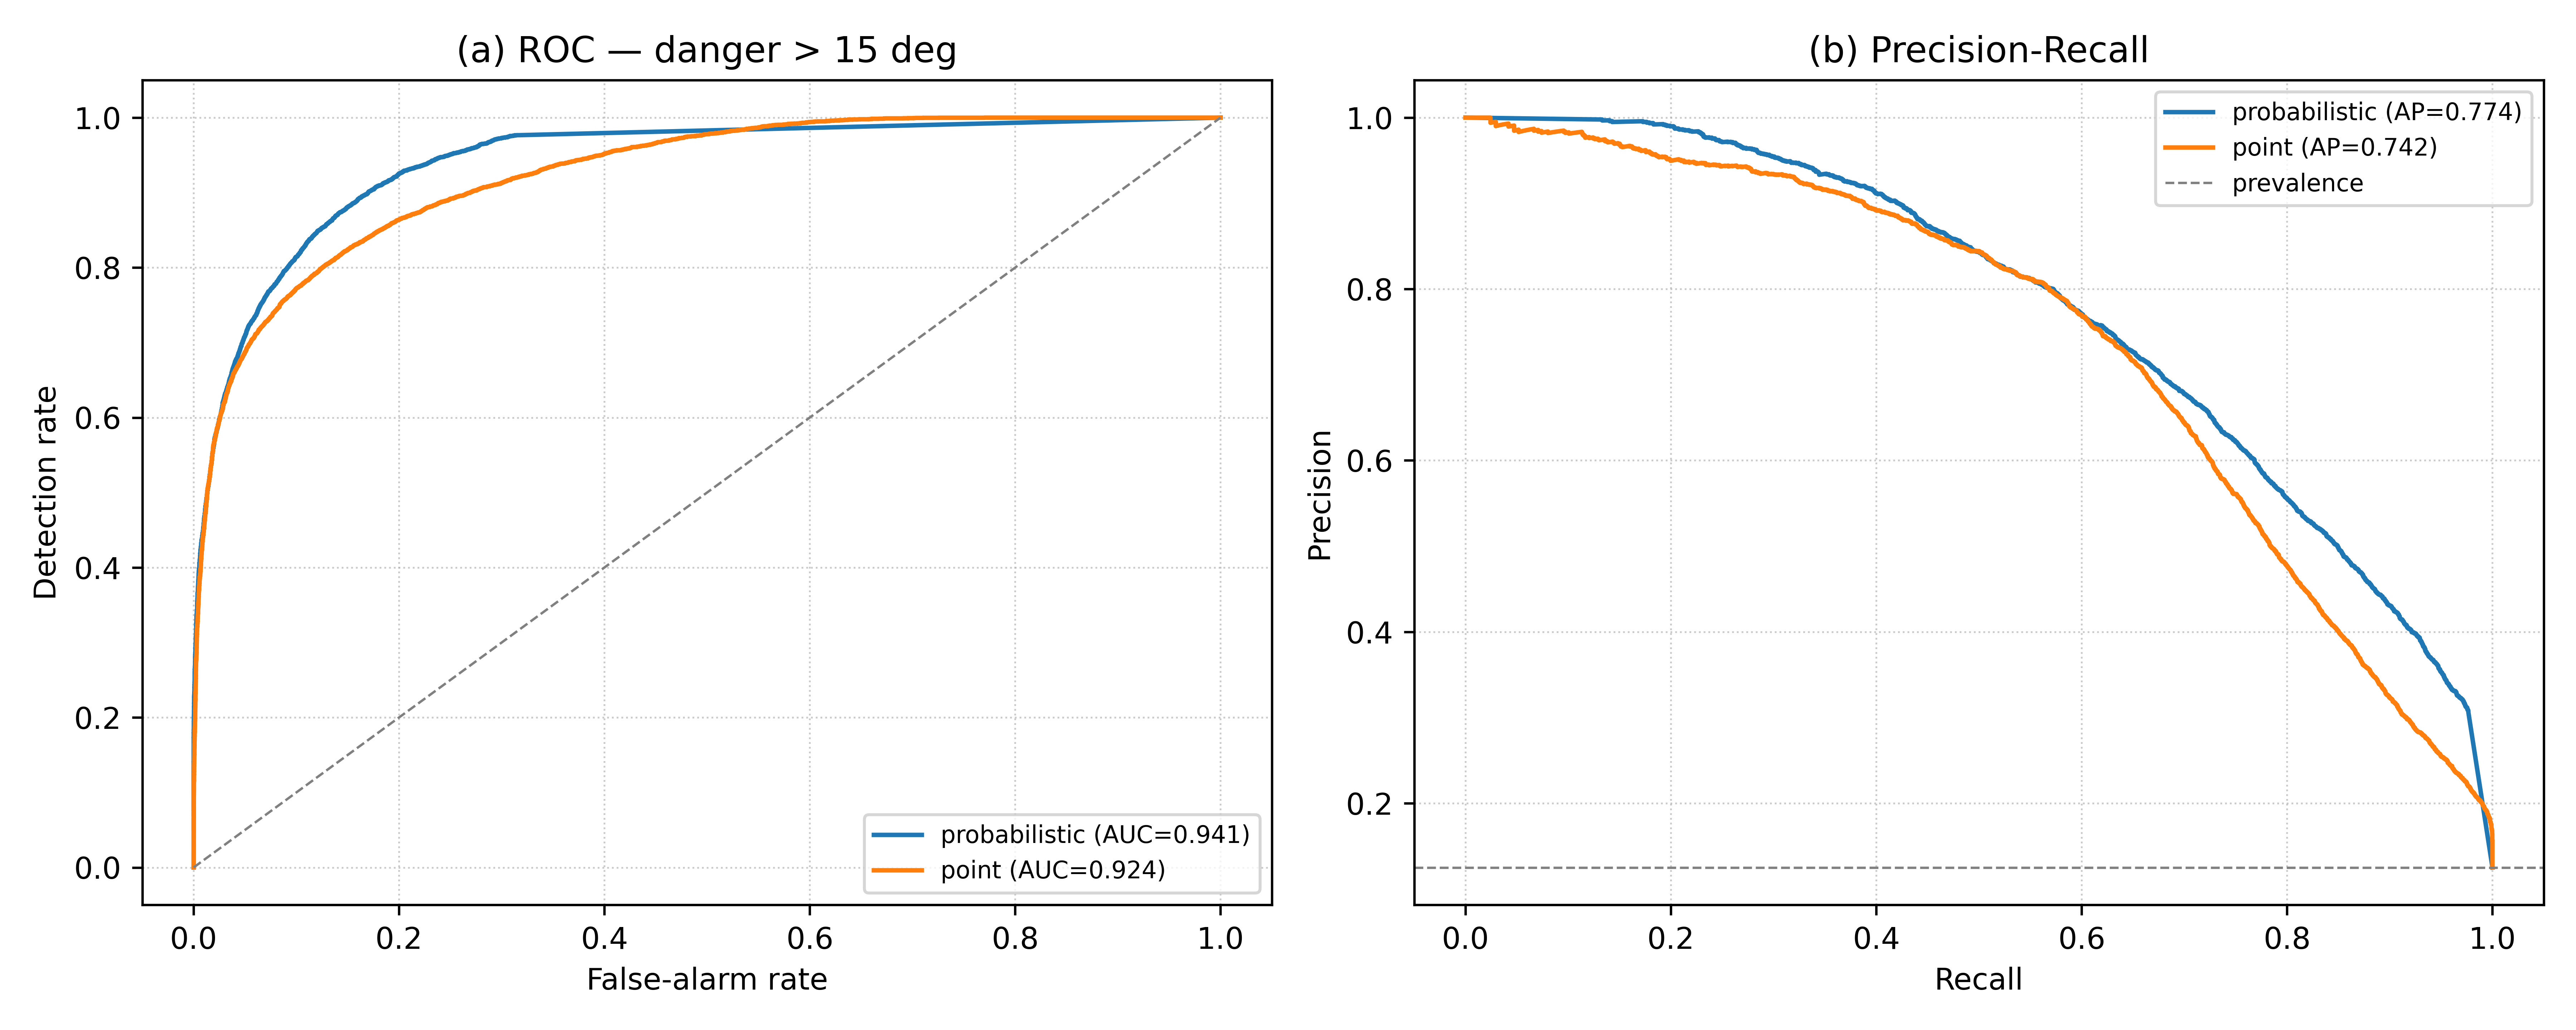
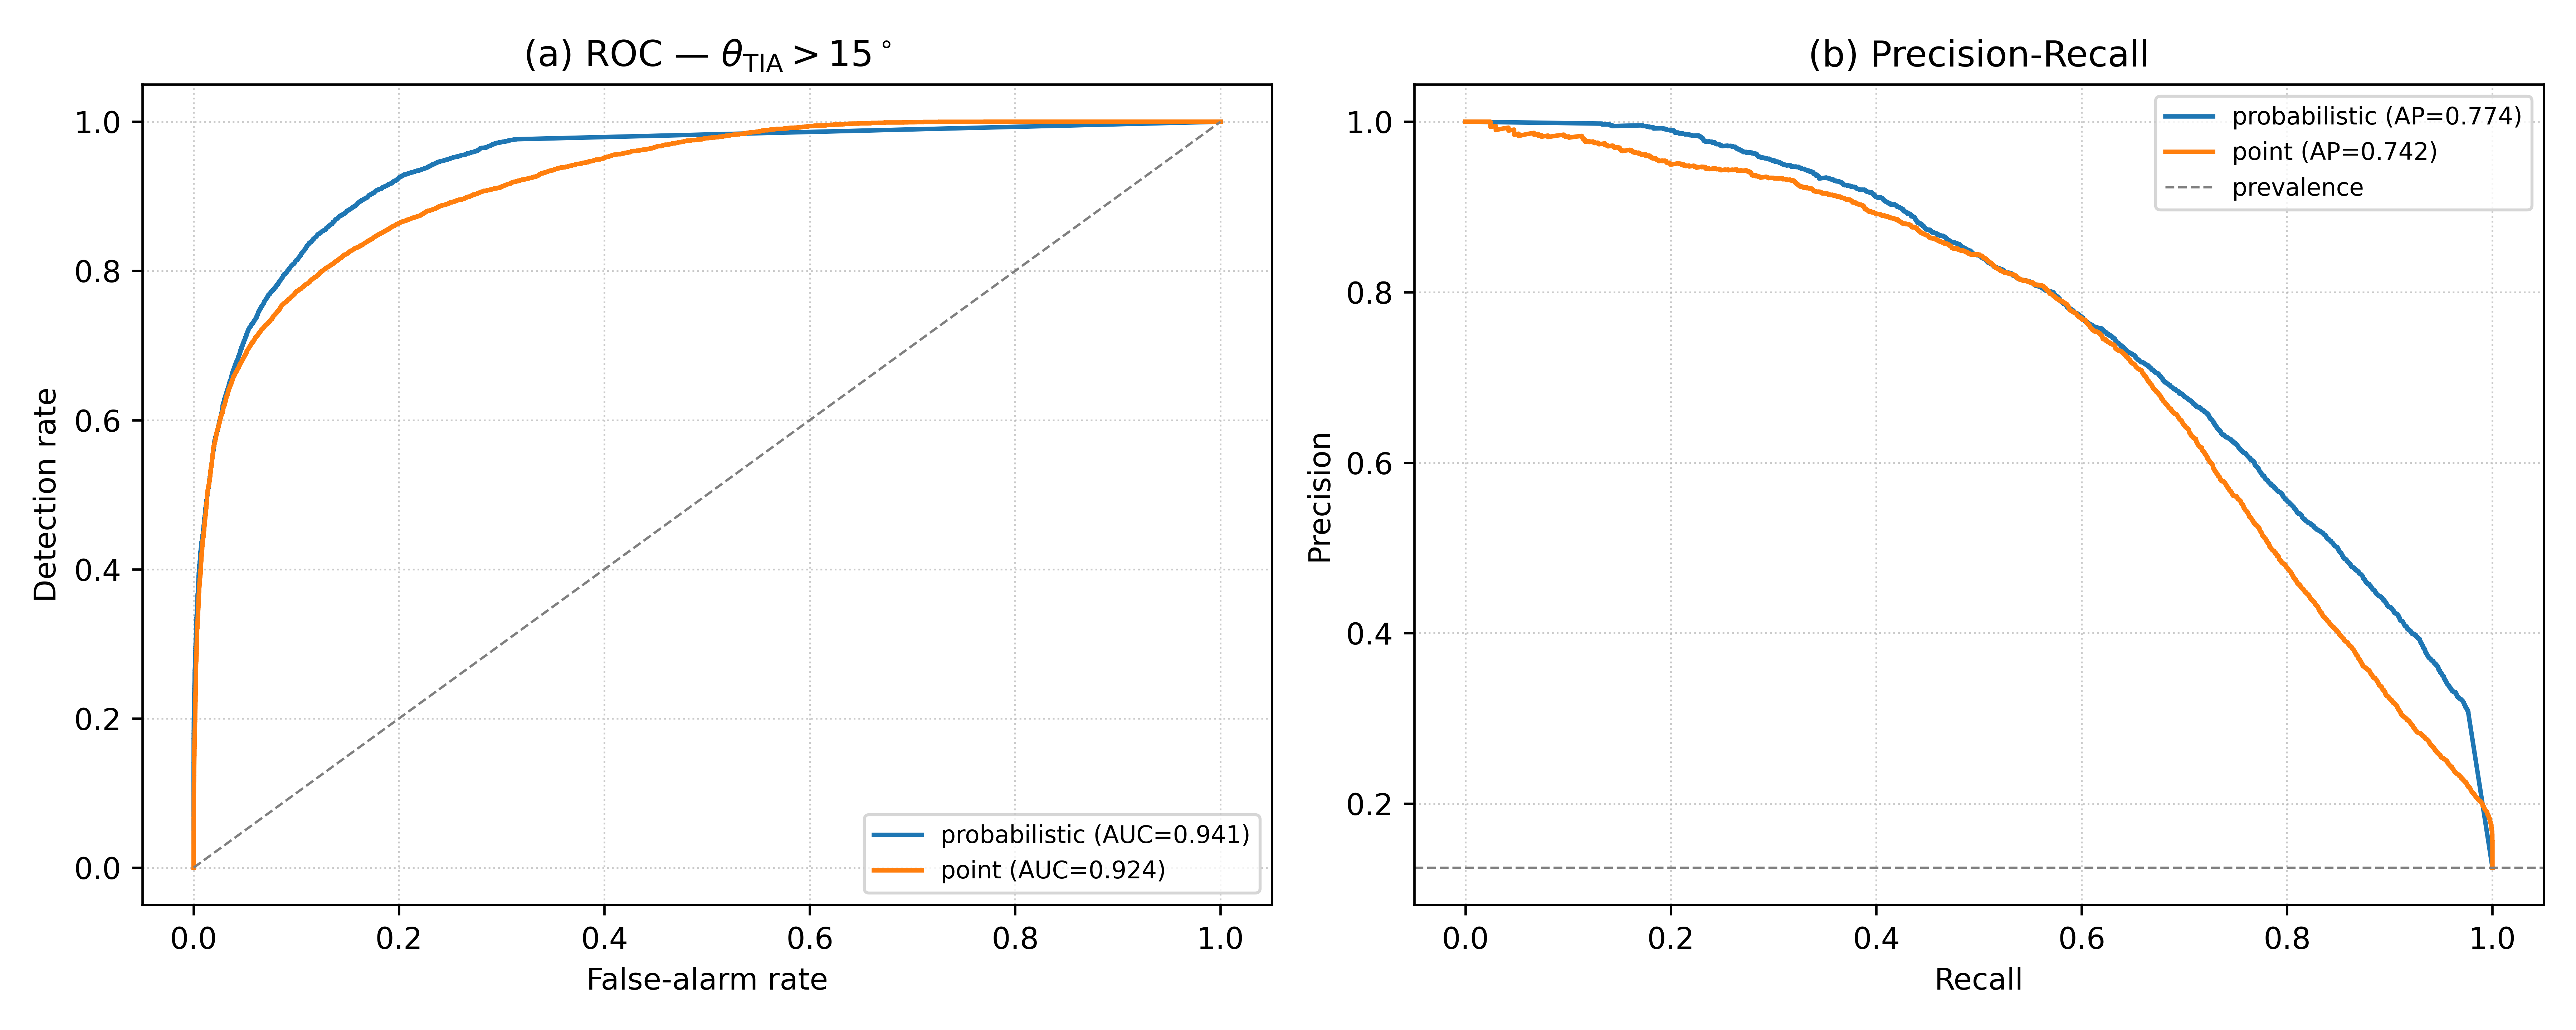
figs: align F7/F8 titles with paper terminology (theta_TIA > 15 deg)
Replace the danger-threshold axis titles in jmse/plots/earlywarning.py with the
manuscript total-inclination notation and refresh the committed F7/F8 PNGs.
Keeps the public reproducibility repo consistent with the revised manuscript.

diff --git a/jmse/plots/earlywarning.py b/jmse/plots/earlywarning.py
@@ -42,7 +42,7 @@ def plot_F7(out_dir: Path, method: str = "") -> Path:
         axes[1].plot(rec, prec, label=f"{name} (AP={roc.pr_auc(lab, score):.3f})")
     axes[0].plot([0, 1], [0, 1], ls="--", lw=0.8, color="grey")
     axes[0].set_xlabel("False-alarm rate"); axes[0].set_ylabel("Detection rate")
-    axes[0].set_title(f"(a) ROC — danger > {_HEAD_DEG} deg"); axes[0].legend(fontsize=8)
+    axes[0].set_title(rf"(a) ROC — $\theta_{{\mathrm{{TIA}}}}>{int(_HEAD_DEG)}^\circ$"); axes[0].legend(fontsize=8)
     add_grid(axes[0])
     axes[1].axhline(lab.mean(), ls="--", lw=0.8, color="grey", label="prevalence")
     axes[1].set_xlabel("Recall"); axes[1].set_ylabel("Precision")
@@ -69,7 +69,7 @@ def plot_F8(out_dir: Path) -> Path:
                      label="probabilistic" if name == "prob" else "point")
     axes[0].axhline(0.8, ls="--", lw=0.9, color="red", label="AUC = 0.8")
     axes[0].set_xlabel("Forecast horizon (s)"); axes[0].set_ylabel("ROC-AUC")
-    axes[0].set_title(f"(a) Effective horizon — danger > {_HEAD_DEG} deg")
+    axes[0].set_title(rf"(a) Effective horizon — $\theta_{{\mathrm{{TIA}}}}>{int(_HEAD_DEG)}^\circ$")
     axes[0].legend(fontsize=8)
     add_grid(axes[0])
 